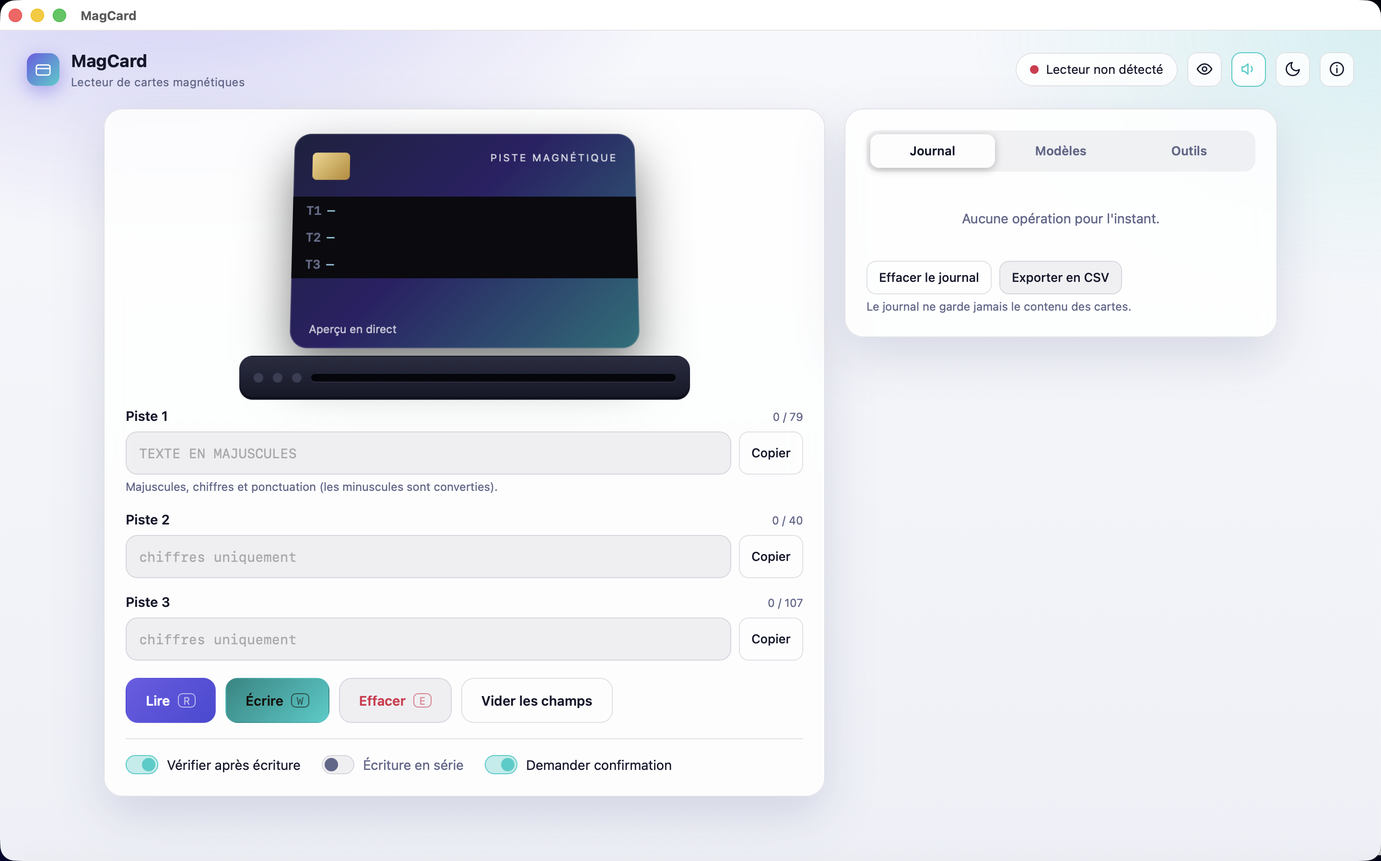
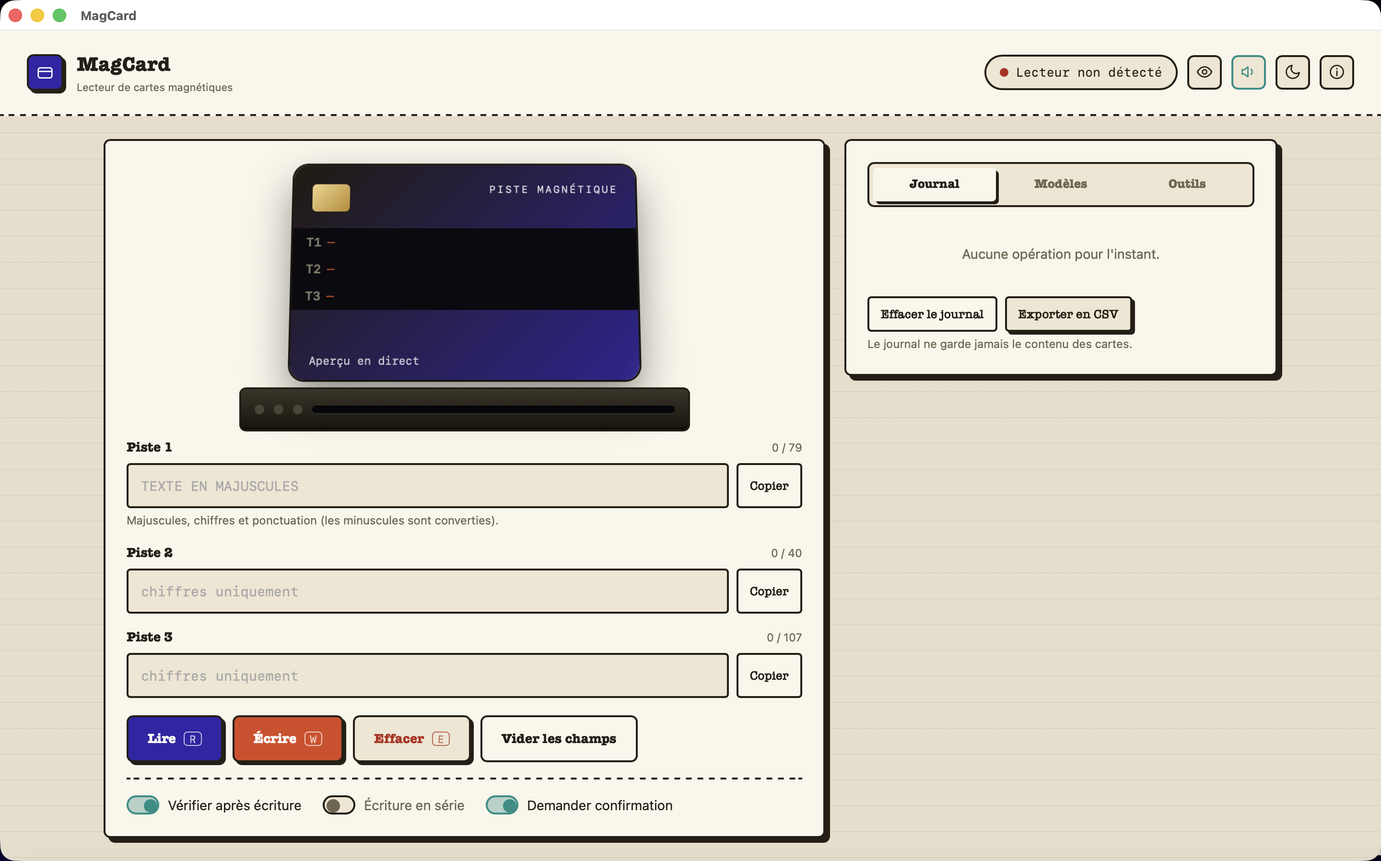
Identité visuelle complète et distinctive : esthétique papier/caisse rétro (typo, bordures, ombres, boutons)

diff --git a/web/index.html b/web/index.html
@@ -5,73 +5,102 @@
 <meta name="viewport" content="width=device-width, initial-scale=1">
 <title>__APP_NAME__</title>
 <style>
+  /* ===================== MagCard : terminal de caisse rétro (papier + encre, ombres dures) ===================== */
   :root {
-    --bg0: #07080d; --bg1: #0d1020; --panel: rgba(255,255,255,.045); --panel2: rgba(255,255,255,.07);
-    --line: rgba(255,255,255,.10); --text: #eef0f8; --muted: #8b90a7;
-    --a1: #6c5ce7; --a2: #00cec9; --ok: #2ee59d; --warn: #ffb547; --bad: #ff5c7a;
-    --shadow: 0 20px 60px rgba(0,0,0,.45);
+    --bg0: #e7decb; --paper: #faf6eb; --paper2: #efe6d2; --ink: #251f15; --line: #251f15;
+    --text: #251f15; --muted: #6f6650;
+    --a1: #3226a8; --a2: #0f8f86; --hot: #d8481f;
+    --ok: #0f7a46; --warn: #9a6400; --bad: #b3281a;
+    --radius: 7px; --radius-sm: 4px; --radius-pill: 999px; --bw: 2px;
+    --shadow: 5px 5px 0 var(--ink); --shadow-sm: 3px 3px 0 var(--ink);
+    --font-display: "American Typewriter", Georgia, "Noto Serif", serif;
+    --font-body: -apple-system, BlinkMacSystemFont, "Helvetica Neue", Arial, sans-serif;
+    --font-mono: ui-monospace, "SF Mono", Menlo, monospace;
   }
-  :root[data-theme="light"] {
-    --bg0: #eef0f7; --bg1: #f7f8fc; --panel: rgba(255,255,255,.85); --panel2: rgba(20,24,60,.06);
-    --line: rgba(20,24,60,.12); --text: #14172b; --muted: #61668a; --ok: #0ea36b; --warn: #c97a00; --bad: #d92d4b;
-    --shadow: 0 20px 50px rgba(40,50,110,.15);
+  :root[data-theme="dark"] {
+    --bg0: #19140e; --paper: #241d14; --paper2: #2d2418; --ink: #f2e9d4; --line: #f2e9d4; --text: #f2e9d4; --muted: #ad9f7c;
   }
-  /* ChipCard a sa propre couleur d'accent (or, assortie à son icône) pour ne pas être un simple clone de MagCard (turquoise). */
-  :root[data-app="chip"] { --a2: #d69e2e; }
-  :root[data-app="chip"][data-theme="light"] { --a2: #b9801a; }
+
+  /* ===================== ChipCard : console de sécurité (noir, ambre, monospace) ===================== */
+  :root[data-app="chip"] {
+    --bg0: #050704; --paper: #0b100b; --paper2: #121a12; --ink: #e8ffe0; --line: color-mix(in srgb, var(--a2) 45%, transparent);
+    --text: #d8e8da; --muted: #5d7360;
+    --a1: #ffb000; --a2: #ffb000; --hot: #ff5a36;
+    --ok: #39d66f; --warn: #ffb000; --bad: #ff4d4d;
+    --radius: 3px; --radius-sm: 2px; --radius-pill: 3px; --bw: 1px;
+    --shadow: 0 0 0 1px color-mix(in srgb, var(--a2) 30%, transparent), 0 0 26px color-mix(in srgb, var(--a2) 14%, transparent);
+    --shadow-sm: 0 0 0 1px color-mix(in srgb, var(--a2) 35%, transparent);
+    --font-display: ui-monospace, "SF Mono", Menlo, monospace;
+    --font-body: ui-monospace, "SF Mono", Menlo, monospace;
+    --font-mono: ui-monospace, "SF Mono", Menlo, monospace;
+  }
+  :root[data-app="chip"][data-theme="light"] {
+    --bg0: #e9efe6; --paper: #f6faf4; --paper2: #e7efe3; --ink: #0d2412; --line: color-mix(in srgb, var(--a2) 55%, transparent);
+    --text: #0d2412; --muted: #52664f; --a1: #8a5a00; --a2: #8a5a00;
+  }
+
   * { box-sizing: border-box; }
   html, body { margin: 0; min-height: 100%; }
   body {
-    color: var(--text); font: 14px/1.5 -apple-system, BlinkMacSystemFont, "SF Pro Text", "Inter", system-ui, sans-serif;
-    background:
-      radial-gradient(900px 500px at 12% -10%, color-mix(in srgb, var(--a1) 28%, transparent), transparent 60%),
-      radial-gradient(800px 500px at 100% 0%, color-mix(in srgb, var(--a2) 20%, transparent), transparent 55%),
-      linear-gradient(180deg, var(--bg1), var(--bg0));
-    background-attachment: fixed;
+    color: var(--text); font: 14px/1.5 var(--font-body); background: var(--bg0);
+    background-image: repeating-linear-gradient(0deg, color-mix(in srgb, var(--ink) 6%, transparent) 0 1px, transparent 1px 27px);
   }
-  .mono { font-family: ui-monospace, SFMono-Regular, "SF Mono", Menlo, monospace; }
+  :root[data-app="chip"] body {
+    background-image:
+      repeating-linear-gradient(180deg, color-mix(in srgb, var(--a2) 5%, transparent) 0 1px, transparent 1px 3px),
+      repeating-linear-gradient(0deg, color-mix(in srgb, var(--a2) 5%, transparent) 0 1px, transparent 1px 34px),
+      repeating-linear-gradient(90deg, color-mix(in srgb, var(--a2) 5%, transparent) 0 1px, transparent 1px 34px);
+  }
+  .mono { font-family: var(--font-mono); }
   button, input, select, textarea { font: inherit; color: inherit; }
 
   /* barre du haut */
-  .top { display: flex; flex-wrap: wrap; align-items: center; justify-content: space-between; gap: 12px; padding: 18px 28px; }
+  .top { display: flex; flex-wrap: wrap; align-items: center; justify-content: space-between; gap: 12px; padding: 20px 28px;
+         background: var(--paper); border-bottom: var(--bw) dashed var(--line); }
+  :root[data-app="chip"] .top { border-bottom-style: solid; }
   .brand div { white-space: nowrap; }
-  .brand { display: flex; align-items: center; gap: 12px; font-weight: 700; font-size: 18px; letter-spacing: .2px; }
-  .logo { width: 34px; height: 34px; border-radius: 10px; display: grid; place-items: center;
-          background: linear-gradient(135deg, var(--a1), var(--a2)); box-shadow: 0 6px 20px color-mix(in srgb, var(--a1) 50%, transparent); }
-  .brand small { display: block; font-weight: 400; font-size: 12px; color: var(--muted); }
+  .brand { display: flex; align-items: center; gap: 14px; font-weight: 800; font-size: 21px; letter-spacing: .3px; font-family: var(--font-display); }
+  :root[data-app="chip"] .brand { text-transform: uppercase; letter-spacing: 2.5px; font-size: 16px; }
+  .logo { width: 38px; height: 38px; border-radius: var(--radius); display: grid; place-items: center;
+          background: var(--a1); border: var(--bw) solid var(--ink); box-shadow: var(--shadow-sm); color: var(--paper); }
+  :root[data-app="chip"] .logo { background: transparent; border-color: var(--a2); color: var(--a2); }
+  .brand small { display: block; font-weight: 400; font-size: 11px; color: var(--muted); font-family: var(--font-body); text-transform: none; letter-spacing: 0; }
   .top-right { display: flex; align-items: center; gap: 10px; }
-  .pill { display: flex; align-items: center; gap: 8px; padding: 7px 14px; border-radius: 999px;
-          background: var(--panel); border: 1px solid var(--line); font-size: 13px; }
+  .pill { display: flex; align-items: center; gap: 8px; padding: 7px 14px; border-radius: var(--radius-pill);
+          background: var(--paper2); border: var(--bw) solid var(--line); font-size: 13px; font-family: var(--font-mono); }
   .dot { width: 9px; height: 9px; border-radius: 50%; background: var(--muted); }
   .dot.on { background: var(--ok); box-shadow: 0 0 10px var(--ok); }
   .dot.off { background: var(--bad); } .dot.busy { background: var(--warn); box-shadow: 0 0 10px var(--warn); animation: pulse 1s infinite; }
   @keyframes pulse { 50% { opacity: .35; } }
-  .icon-btn { width: 36px; height: 36px; border-radius: 10px; border: 1px solid var(--line); background: var(--panel);
-              cursor: pointer; display: grid; place-items: center; }
-  .icon-btn:hover { background: var(--panel2); }
+  .icon-btn { width: 36px; height: 36px; border-radius: var(--radius); border: var(--bw) solid var(--line); background: var(--paper2);
+              cursor: pointer; display: grid; place-items: center; color: var(--text); transition: transform .12s, box-shadow .12s; }
+  .icon-btn:hover { background: var(--paper); transform: translate(-1px, -1px); box-shadow: var(--shadow-sm); }
   .icon-btn.active { border-color: var(--a2); color: var(--a2); }
   svg { width: 18px; height: 18px; stroke: currentColor; fill: none; stroke-width: 1.8; stroke-linecap: round; stroke-linejoin: round; }
+  :root[data-app="chip"] svg { stroke-width: 1.4; }
 
   /* mise en page */
-  .wrap { display: grid; grid-template-columns: minmax(0, 1.25fr) minmax(300px, .75fr); gap: 20px; padding: 0 28px 48px; max-width: 1280px; margin: 0 auto; }
-  @media (max-width: 960px) { .wrap { grid-template-columns: 1fr; padding: 0 16px 40px; } .top { padding: 14px 16px; } }
-  .panel { background: var(--panel); border: 1px solid var(--line); border-radius: 20px; padding: 22px; backdrop-filter: blur(14px); box-shadow: var(--shadow); }
+  .wrap { display: grid; grid-template-columns: minmax(0, 1.25fr) minmax(300px, .75fr); gap: 20px; padding: 24px 28px 48px; max-width: 1280px; margin: 0 auto; }
+  @media (max-width: 960px) { .wrap { grid-template-columns: 1fr; padding: 16px 16px 40px; } .top { padding: 14px 16px; } }
+  .panel { background: var(--paper); border: var(--bw) solid var(--line); border-radius: var(--radius); padding: 22px; box-shadow: var(--shadow); }
   .stack { display: flex; flex-direction: column; gap: 20px; min-width: 0; }
-  h2 { font-size: 12px; text-transform: uppercase; letter-spacing: 1.4px; color: var(--muted); margin: 0 0 14px; font-weight: 600; }
+  h2 { font-size: 12px; text-transform: uppercase; letter-spacing: 1.4px; color: var(--muted); margin: 0 0 14px; font-weight: 700; font-family: var(--font-display); }
+  :root[data-app="chip"] h2::before { content: "// "; color: var(--a2); }
 
   /* carte + lecteur */
   .stage { display: grid; place-items: center; padding: 8px 0 22px; min-height: 270px; position: relative; perspective: 1000px; }
   .reader { position: absolute; left: 50%; bottom: 6px; transform: translateX(-50%); width: min(470px, 96%); height: 46px;
-            border-radius: 14px; background: linear-gradient(180deg, #2a2d42, #151726); border: 1px solid var(--line);
+            border-radius: var(--radius); background: linear-gradient(180deg, #2a2d2a, #14160f); border: var(--bw) solid var(--line);
             box-shadow: 0 -2px 0 rgba(0,0,0,.4) inset; display: flex; align-items: center; padding: 0 14px; gap: 10px; z-index: 2; }
-  .reader .slot { flex: 1; height: 8px; border-radius: 6px; background: #05060b; box-shadow: 0 1px 0 rgba(255,255,255,.07); }
-  .reader .led { width: 10px; height: 10px; border-radius: 50%; background: #3a3d55; }
+  :root[data-app="mag"] .reader, .reader { background: linear-gradient(180deg, #3a3528, #17140d); }
+  .reader .slot { flex: 1; height: 8px; border-radius: var(--radius-sm); background: #05060b; box-shadow: 0 1px 0 rgba(255,255,255,.07); }
+  .reader .led { width: 10px; height: 10px; border-radius: 50%; background: #4a4535; }
   .reader.waiting .led.y { background: var(--warn); box-shadow: 0 0 12px var(--warn); animation: pulse 1s infinite; }
   .reader.ok .led.g { background: var(--ok); box-shadow: 0 0 12px var(--ok); }
   .reader.err .led.r { background: var(--bad); box-shadow: 0 0 12px var(--bad); }
-  .card3d { width: min(360px, 88%); aspect-ratio: 1.586; border-radius: 18px; position: relative; overflow: hidden;
-            background: linear-gradient(135deg, #1e2140 0%, #2b2166 45%, #0b6f7a 100%); color: #fff;
-            box-shadow: 0 24px 50px rgba(0,0,0,.5), 0 0 0 1px rgba(255,255,255,.12) inset;
+  .card3d { width: min(360px, 88%); aspect-ratio: 1.586; border-radius: calc(var(--radius) + 8px); position: relative; overflow: hidden;
+            background: linear-gradient(135deg, #211b10 0%, var(--a1) 120%); color: #fff;
+            box-shadow: 0 20px 44px rgba(0,0,0,.45), 0 0 0 2px var(--ink);
             transform: rotateX(8deg) translateY(-8px); transition: transform .5s cubic-bezier(.2,.8,.2,1); margin-bottom: 30px; container-type: inline-size; }
   .card3d::after { content: ""; position: absolute; inset: 0; background: linear-gradient(115deg, transparent 30%, rgba(255,255,255,.14) 48%, transparent 62%);
                    transform: translateX(-100%); animation: shine 5s infinite; }
@@ -79,46 +108,54 @@
   .card3d.swipe { animation: swipe 1.6s cubic-bezier(.5,0,.5,1) infinite; }
   @keyframes swipe { 0% { transform: rotateX(8deg) translate(-70px, -8px); } 50% { transform: rotateX(8deg) translate(70px, 14px); }
                      100% { transform: rotateX(8deg) translate(-70px, -8px); } }
-  .card3d.flash-ok { box-shadow: 0 24px 50px rgba(0,0,0,.5), 0 0 0 2px var(--ok), 0 0 40px color-mix(in srgb, var(--ok) 55%, transparent); }
-  .card3d.flash-err { box-shadow: 0 24px 50px rgba(0,0,0,.5), 0 0 0 2px var(--bad), 0 0 40px color-mix(in srgb, var(--bad) 55%, transparent); }
+  .card3d.flash-ok { box-shadow: 0 20px 44px rgba(0,0,0,.45), 0 0 0 2px var(--ok), 0 0 40px color-mix(in srgb, var(--ok) 55%, transparent); }
+  .card3d.flash-err { box-shadow: 0 20px 44px rgba(0,0,0,.45), 0 0 0 2px var(--bad), 0 0 40px color-mix(in srgb, var(--bad) 55%, transparent); }
   .chip { position: absolute; left: 5.5%; top: 9%; width: 11%; height: 13%; border-radius: 12%/16%; background: linear-gradient(135deg, #f1d58a, #b88a2c); }
-  .tag { position: absolute; right: 5%; top: 8%; font-size: 3cqw; letter-spacing: .5cqw; opacity: .8; text-transform: uppercase; }
+  .tag { position: absolute; right: 5%; top: 8%; font-size: 3cqw; letter-spacing: .5cqw; opacity: .8; text-transform: uppercase; font-family: var(--font-mono); }
   .stripe { position: absolute; left: 0; right: 0; top: 30%; height: 38%; background: #0a0a0f; padding: 2.4cqw 4cqw;
             display: flex; flex-direction: column; justify-content: space-between; }
-  .stripe div { font: 3.6cqw/1 ui-monospace, Menlo, monospace; color: #9fe7ff; white-space: nowrap; overflow: hidden; text-overflow: ellipsis; opacity: .95; }
-  .stripe b { color: #6d7494; font-weight: 600; margin-right: 6px; }
-  .card-foot { position: absolute; left: 5.5%; bottom: 5%; font-size: 3.2cqw; opacity: .75; }
+  .stripe div { font: 3.6cqw/1 var(--font-mono); color: var(--hot); white-space: nowrap; overflow: hidden; text-overflow: ellipsis; opacity: .95; }
+  .stripe b { color: #8a8470; font-weight: 600; margin-right: 6px; }
+  .card-foot { position: absolute; left: 5.5%; bottom: 5%; font-size: 3.2cqw; opacity: .75; font-family: var(--font-mono); }
 
   /* champs */
   .fields { display: grid; gap: 14px; }
-  .field label { display: flex; justify-content: space-between; align-items: baseline; font-weight: 600; margin-bottom: 6px; }
-  .field label small { font-weight: 400; color: var(--muted); }
+  .field label { display: flex; justify-content: space-between; align-items: baseline; font-weight: 700; margin-bottom: 6px; font-family: var(--font-display); }
+  :root[data-app="chip"] .field label { font-weight: 600; text-transform: uppercase; font-size: 12px; letter-spacing: 1px; }
+  .field label small { font-weight: 400; color: var(--muted); text-transform: none; letter-spacing: 0; font-family: var(--font-body); }
   .inp { display: flex; gap: 8px; }
   input[type=text], input[type=number], select, textarea {
-    width: 100%; padding: 11px 13px; border-radius: 12px; border: 1px solid var(--line); background: var(--panel2); outline: none; }
-  input[type=text], textarea { font-family: ui-monospace, Menlo, monospace; }
+    width: 100%; padding: 11px 13px; border-radius: var(--radius-sm); border: var(--bw) solid var(--line); background: var(--paper2); outline: none; }
+  input[type=text], textarea { font-family: var(--font-mono); }
   input:focus, select:focus, textarea:focus { border-color: var(--a2); box-shadow: 0 0 0 3px color-mix(in srgb, var(--a2) 22%, transparent); }
   .masked input[type=text] { -webkit-text-security: disc; }
-  select option { background: #1b1e33; color: #eef0f8; }
+  select option { background: var(--paper); color: var(--text); }
   .hint { font-size: 12px; color: var(--muted); margin-top: 4px; }
   .bad { color: var(--bad) !important; }
 
   /* boutons */
   .actions { display: flex; flex-wrap: wrap; gap: 10px; margin-top: 18px; }
-  .btn { border: 1px solid var(--line); background: var(--panel2); padding: 12px 20px; border-radius: 13px; font-weight: 600; cursor: pointer;
-         display: inline-flex; align-items: center; gap: 8px; transition: transform .12s, filter .12s, background .12s; }
-  .btn:hover:not(:disabled) { transform: translateY(-1px); filter: brightness(1.12); }
+  .btn { border: var(--bw) solid var(--ink); background: var(--paper2); padding: 12px 20px; border-radius: var(--radius); font-weight: 700; cursor: pointer;
+         display: inline-flex; align-items: center; gap: 8px; transition: transform .1s, box-shadow .1s; box-shadow: var(--shadow-sm);
+         font-family: var(--font-display); color: var(--text); }
+  :root[data-app="chip"] .btn { font-family: var(--font-mono); text-transform: uppercase; font-size: 12.5px; letter-spacing: 1px; font-weight: 700; border-color: var(--line); }
+  .btn:hover:not(:disabled) { transform: translate(-2px, -2px); box-shadow: 6px 6px 0 var(--ink); }
+  :root[data-app="chip"] .btn:hover:not(:disabled) { box-shadow: 0 0 0 1px var(--a2), 0 0 18px color-mix(in srgb, var(--a2) 45%, transparent); transform: none; }
+  .btn:active:not(:disabled) { transform: translate(0, 0); box-shadow: 1px 1px 0 var(--ink); }
   .btn:disabled { opacity: .4; cursor: not-allowed; }
-  .btn.read { background: linear-gradient(135deg, var(--a1), #4a49d6); border-color: transparent; color: #fff; }
-  .btn.write { background: linear-gradient(135deg, color-mix(in srgb, var(--a2) 65%, black), var(--a2)); border-color: transparent; color: #14110a; }
+  .btn.read { background: var(--a1); border-color: var(--ink); color: #fff; }
+  :root[data-app="chip"] .btn.read { background: transparent; color: var(--a2); border-color: var(--a2); }
+  .btn.write { background: var(--hot); border-color: var(--ink); color: #fff; }
+  :root[data-app="chip"] .btn.write { background: var(--a2); color: #120c00; border-color: var(--a2); }
   .btn.erase { color: var(--bad); }
-  .btn.small { padding: 7px 12px; font-size: 13px; border-radius: 10px; font-weight: 500; }
-  .btn.ghost { background: transparent; }
-  .kbd { font: 11px ui-monospace, Menlo, monospace; opacity: .6; border: 1px solid currentColor; border-radius: 5px; padding: 0 5px; }
+  .btn.small { padding: 7px 12px; font-size: 13px; border-radius: var(--radius-sm); font-weight: 600; box-shadow: var(--shadow-sm); }
+  .btn.ghost { background: transparent; box-shadow: none; }
+  .kbd { font: 11px var(--font-mono); opacity: .7; border: 1px solid currentColor; border-radius: 4px; padding: 0 5px; }
 
-  .opts { display: flex; flex-wrap: wrap; gap: 8px 22px; margin-top: 16px; padding-top: 16px; border-top: 1px solid var(--line); }
+  .opts { display: flex; flex-wrap: wrap; gap: 8px 22px; margin-top: 16px; padding-top: 16px; border-top: var(--bw) dashed var(--line); }
+  :root[data-app="chip"] .opts { border-top-style: solid; }
   .sw { display: inline-flex; align-items: center; gap: 9px; cursor: pointer; user-select: none; color: var(--muted); }
-  .sw input { appearance: none; width: 34px; height: 20px; border-radius: 20px; background: var(--panel2); border: 1px solid var(--line);
+  .sw input { appearance: none; width: 34px; height: 20px; border-radius: var(--radius-pill); background: var(--paper2); border: var(--bw) solid var(--line);
               position: relative; cursor: pointer; transition: .2s; margin: 0; }
   .sw input::after { content: ""; position: absolute; top: 2px; left: 2px; width: 14px; height: 14px; border-radius: 50%; background: var(--muted); transition: .2s; }
   .sw input:checked { background: color-mix(in srgb, var(--a2) 35%, transparent); border-color: var(--a2); }
@@ -126,84 +163,87 @@
   .sw input:checked ~ span { color: var(--text); }
 
   /* série */
-  .batch { display: none; margin-top: 16px; padding: 14px; border-radius: 14px; border: 1px dashed var(--line); }
+  .batch { display: none; margin-top: 16px; padding: 14px; border-radius: var(--radius); border: var(--bw) dashed var(--line); }
   .batch.show { display: block; }
   .grid3 { display: grid; grid-template-columns: repeat(3, 1fr); gap: 10px; }
   .grid3 label { font-size: 12px; color: var(--muted); display: block; margin-bottom: 4px; }
-  .bar { height: 6px; border-radius: 6px; background: var(--panel2); margin-top: 12px; overflow: hidden; }
-  .bar i { display: block; height: 100%; width: 0; background: linear-gradient(90deg, var(--a1), var(--a2)); transition: width .3s; }
+  .bar { height: 6px; border-radius: var(--radius-sm); background: var(--paper2); margin-top: 12px; overflow: hidden; }
+  .bar i { display: block; height: 100%; width: 0; background: var(--a1); transition: width .3s; }
 
   /* statut */
-  .banner { display: none; align-items: center; gap: 14px; padding: 14px 16px; border-radius: 14px; margin-bottom: 16px;
-            border: 1px solid var(--line); background: var(--panel2); }
+  .banner { display: none; align-items: center; gap: 14px; padding: 14px 16px; border-radius: var(--radius); margin-bottom: 16px;
+            border: var(--bw) solid var(--line); background: var(--paper2); }
   .banner.show { display: flex; }
   .banner.wait { border-color: var(--warn); } .banner.ok { border-color: var(--ok); } .banner.err { border-color: var(--bad); }
-  .banner .t { flex: 1; } .banner .t b { display: block; }
+  .banner .t { flex: 1; } .banner .t b { display: block; font-family: var(--font-display); }
   .banner .t span { color: var(--muted); font-size: 13px; }
 
   /* onglets */
-  .tabs { display: flex; gap: 4px; background: var(--panel2); padding: 4px; border-radius: 12px; margin-bottom: 16px; }
-  .tabs button { flex: 1; border: 0; background: transparent; padding: 8px; border-radius: 9px; cursor: pointer; color: var(--muted); font-weight: 600; font-size: 13px; }
-  .tabs button.on { background: var(--panel); color: var(--text); box-shadow: 0 2px 8px rgba(0,0,0,.25); }
+  .tabs { display: flex; gap: 4px; background: var(--paper2); padding: 4px; border-radius: var(--radius); margin-bottom: 16px; border: var(--bw) solid var(--line); }
+  .tabs button { flex: 1; border: 0; background: transparent; padding: 8px; border-radius: var(--radius-sm); cursor: pointer; color: var(--muted); font-weight: 700; font-size: 13px; font-family: var(--font-display); }
+  :root[data-app="chip"] .tabs button { font-family: var(--font-mono); text-transform: uppercase; letter-spacing: .5px; font-size: 12px; }
+  .tabs button.on { background: var(--paper); color: var(--text); box-shadow: var(--shadow-sm); }
   .tabpane { display: none; } .tabpane.on { display: block; }
   .list { display: flex; flex-direction: column; gap: 8px; max-height: 360px; overflow: auto; }
-  .item { display: flex; align-items: center; gap: 10px; padding: 10px 12px; border-radius: 12px; background: var(--panel2); border: 1px solid transparent; }
+  .item { display: flex; align-items: center; gap: 10px; padding: 10px 12px; border-radius: var(--radius-sm); background: var(--paper2); border: 1px solid transparent; }
   .item .g { flex: 1; min-width: 0; } .item .g b { display: block; overflow: hidden; text-overflow: ellipsis; white-space: nowrap; }
   .item small { color: var(--muted); }
   .empty { color: var(--muted); text-align: center; padding: 22px 0; }
   .tick { width: 8px; height: 8px; border-radius: 50%; flex: none; background: var(--muted); }
   .tick.ok { background: var(--ok); } .tick.err { background: var(--bad); } .tick.info { background: var(--a2); }
   .row { display: flex; gap: 8px; flex-wrap: wrap; }
-  .tool { margin-bottom: 18px; } .tool h3 { font-size: 13px; margin: 0 0 8px; }
-  pre.hex { margin: 0; padding: 12px; border-radius: 12px; background: var(--panel2); font: 12px/1.6 ui-monospace, Menlo, monospace; overflow: auto; max-height: 200px; white-space: pre-wrap; word-break: break-all; }
-  .toast { position: fixed; left: 50%; bottom: 26px; transform: translate(-50%, 30px); opacity: 0; background: var(--text); color: var(--bg0);
-           padding: 10px 18px; border-radius: 12px; font-weight: 600; transition: .25s; pointer-events: none; z-index: 10; }
+  .tool { margin-bottom: 18px; } .tool h3 { font-size: 13px; margin: 0 0 8px; font-family: var(--font-display); }
+  pre.hex { margin: 0; padding: 12px; border-radius: var(--radius-sm); background: var(--paper2); font: 12px/1.6 var(--font-mono); overflow: auto; max-height: 200px; white-space: pre-wrap; word-break: break-all; border: 1px solid var(--line); }
+  .toast { position: fixed; left: 50%; bottom: 26px; transform: translate(-50%, 30px); opacity: 0; background: var(--ink); color: var(--paper);
+           padding: 10px 18px; border-radius: var(--radius); font-weight: 700; transition: .25s; pointer-events: none; z-index: 10; font-family: var(--font-display); }
+  :root[data-app="chip"] .toast { font-family: var(--font-mono); border: 1px solid var(--a2); }
   .toast.show { opacity: 1; transform: translate(-50%, 0); }
 
   /* navigation Piste / Puce */
-  .seg { display: flex; gap: 4px; background: var(--panel); border: 1px solid var(--line); padding: 4px; border-radius: 14px; }
-  .seg button { border: 0; background: transparent; padding: 8px 18px; border-radius: 10px; cursor: pointer; font-weight: 600; color: var(--muted); }
-  .seg button.on { background: linear-gradient(135deg, var(--a1), #4a49d6); color: #fff; box-shadow: 0 4px 14px color-mix(in srgb, var(--a1) 45%, transparent); }
+  .seg { display: flex; gap: 4px; background: var(--paper); border: var(--bw) solid var(--line); padding: 4px; border-radius: var(--radius); }
+  .seg button { border: 0; background: transparent; padding: 8px 18px; border-radius: var(--radius-sm); cursor: pointer; font-weight: 700; color: var(--muted); font-family: var(--font-display); }
+  .seg button.on { background: var(--a1); color: #fff; box-shadow: var(--shadow-sm); }
   .view { display: none; } .view.on { display: grid; }
 
   /* puce */
   .cstage { display: grid; place-items: center; min-height: 260px; position: relative; padding: 56px 0 24px; }
-  .creader { width: min(380px, 92%); height: 150px; border-radius: 18px; position: relative; overflow: hidden;
-             background: linear-gradient(180deg, #2a2d42, #151726); border: 1px solid var(--line); box-shadow: var(--shadow); }
-  .creader .slot { position: absolute; left: 8%; right: 8%; top: 34%; height: 10px; border-radius: 6px; background: #05060b; }
-  .creader .lbl { position: absolute; left: 0; right: 0; bottom: 12px; text-align: center; font-size: 12px; color: #9aa0bd; letter-spacing: .5px; }
-  .creader .pl { position: absolute; right: 14px; top: 12px; width: 10px; height: 10px; border-radius: 50%; background: #3a3d55; }
+  .creader { width: min(380px, 92%); height: 150px; border-radius: var(--radius); position: relative; overflow: hidden;
+             background: linear-gradient(180deg, #1c1f1b, #0c0e0a); border: var(--bw) solid var(--line); box-shadow: var(--shadow); }
+  .creader .slot { position: absolute; left: 8%; right: 8%; top: 34%; height: 10px; border-radius: var(--radius-sm); background: #05060b; }
+  .creader .lbl { position: absolute; left: 0; right: 0; bottom: 12px; text-align: center; font-size: 12px; color: var(--muted); letter-spacing: .5px; font-family: var(--font-mono); }
+  .creader .pl { position: absolute; right: 14px; top: 12px; width: 10px; height: 10px; border-radius: 50%; background: #4a4535; }
   .creader.present .pl { background: var(--ok); box-shadow: 0 0 12px var(--ok); }
-  .ccard { position: absolute; left: 50%; top: 40px; width: min(230px, 60%); aspect-ratio: 1.586; border-radius: 14px; transform: translate(-50%, -60%); opacity: 0;
-           background: linear-gradient(135deg, #2b2166, #0b6f7a); box-shadow: 0 14px 30px rgba(0,0,0,.45); transition: transform .8s cubic-bezier(.2,.8,.2,1), opacity .5s; z-index: 1; }
+  .ccard { position: absolute; left: 50%; top: 40px; width: min(230px, 60%); aspect-ratio: 1.586; border-radius: var(--radius); transform: translate(-50%, -60%); opacity: 0;
+           background: linear-gradient(135deg, #1b1f3a, var(--a1)); box-shadow: 0 14px 30px rgba(0,0,0,.45); transition: transform .8s cubic-bezier(.2,.8,.2,1), opacity .5s; z-index: 1; }
   .ccard::before { content: ""; position: absolute; left: 14%; top: 26%; width: 22%; height: 26%; border-radius: 12%/16%;
                    background: linear-gradient(135deg, #f1d58a, #b88a2c); box-shadow: inset 0 0 0 1px rgba(0,0,0,.25); }
   .ccard.in { transform: translate(-50%, 6%); opacity: 1; }
   .kv { display: grid; grid-template-columns: 150px 1fr; gap: 6px 14px; font-size: 13px; }
-  .kv dt { color: var(--muted); } .kv dd { margin: 0; font-family: ui-monospace, Menlo, monospace; word-break: break-all; }
-  .atr { font: 14px/1.6 ui-monospace, Menlo, monospace; padding: 12px 14px; border-radius: 12px; background: var(--panel2); word-break: break-all; margin-bottom: 14px; min-height: 48px; }
+  .kv dt { color: var(--muted); } .kv dd { margin: 0; font-family: var(--font-mono); word-break: break-all; }
+  .atr { font: 14px/1.6 var(--font-mono); padding: 12px 14px; border-radius: var(--radius-sm); background: var(--paper2); word-break: break-all; margin-bottom: 14px; min-height: 48px; border: 1px solid var(--line); }
   .con { max-height: 340px; overflow: auto; display: flex; flex-direction: column; gap: 8px; margin-top: 14px; }
-  .ex { border-radius: 12px; background: var(--panel2); padding: 10px 12px; font: 12.5px/1.55 ui-monospace, Menlo, monospace; word-break: break-all; }
-  .ex .tx { color: var(--a2); } .ex .rx { color: var(--text); } .ex .sw.ok { color: var(--ok); } .ex .sw.err { color: var(--bad); } .ex .tt { color: var(--muted); font-family: -apple-system, system-ui, sans-serif; font-size: 12px; }
+  .ex { border-radius: var(--radius-sm); background: var(--paper2); padding: 10px 12px; font: 12.5px/1.55 var(--font-mono); word-break: break-all; border: 1px solid var(--line); }
+  .ex .tx { color: var(--a2); } .ex .rx { color: var(--text); } .ex .sw.ok { color: var(--ok); } .ex .sw.err { color: var(--bad); } .ex .tt { color: var(--muted); font-family: var(--font-body); font-size: 12px; }
   .twocol { display: grid; grid-template-columns: 1fr 1fr; gap: 10px; }
 
-  .appb { border: 1px solid var(--line); border-radius: 14px; padding: 14px; margin-top: 14px; background: var(--panel2); }
-  .appb h3 { margin: 0 0 2px; font-size: 15px; } .appb .aid { font: 12px ui-monospace, Menlo, monospace; color: var(--muted); word-break: break-all; margin-bottom: 8px; }
+  .appb { border: var(--bw) solid var(--line); border-radius: var(--radius); padding: 14px; margin-top: 14px; background: var(--paper2); }
+  .appb h3 { margin: 0 0 2px; font-size: 15px; font-family: var(--font-display); } .appb .aid { font: 12px var(--font-mono); color: var(--muted); word-break: break-all; margin-bottom: 8px; }
   .fileb { border-top: 1px solid var(--line); padding: 8px 0; }
   .fileb summary { cursor: pointer; font-weight: 600; display: flex; gap: 8px; align-items: baseline; flex-wrap: wrap; }
   .fileb summary small { font-weight: 400; color: var(--muted); }
-  .badge { font-size: 11px; padding: 1px 8px; border-radius: 99px; border: 1px solid var(--line); color: var(--muted); font-weight: 500; }
+  .badge { font-size: 11px; padding: 1px 8px; border-radius: var(--radius-pill); border: 1px solid var(--line); color: var(--muted); font-weight: 600; font-family: var(--font-mono); }
   .badge.blank { color: var(--ok); border-color: var(--ok); } .badge.used { color: var(--warn); border-color: var(--warn); }
   .badge.lock { color: var(--warn); border-color: var(--warn); }
-  .tl { font: 13px/1.7 ui-monospace, Menlo, monospace; padding: 6px 0 2px; }
+  .tl { font: 13px/1.7 var(--font-mono); padding: 6px 0 2px; }
   .tl .tg { display: inline-block; min-width: 38px; color: var(--a2); }
   .tl .lbl { color: var(--muted); }
   #content.blur .val { filter: blur(7px); transition: filter .2s; } #content.blur .val:hover { filter: none; }
   .raw { margin-top: 6px; }
   .raw summary { font-weight: 400; color: var(--muted); font-size: 12px; }
-  .modal-bg { position: fixed; inset: 0; background: rgba(0,0,0,.45); display: none; align-items: center; justify-content: center; z-index: 80; }
+  .modal-bg { position: fixed; inset: 0; background: rgba(0,0,0,.55); display: none; align-items: center; justify-content: center; z-index: 80; }
   .modal-bg.on { display: flex; }
-  .modal { background: var(--bg1); border: 1px solid var(--line); border-radius: 20px; padding: 28px 32px; max-width: 360px; text-align: center; box-shadow: var(--shadow); }
+  .modal { background: var(--paper); border: var(--bw) solid var(--ink); border-radius: var(--radius); padding: 28px 32px; max-width: 360px; text-align: center; box-shadow: var(--shadow); }
+  :root[data-app="chip"] .modal { border-color: var(--a2); }
 </style>
 </head>
 <body>
